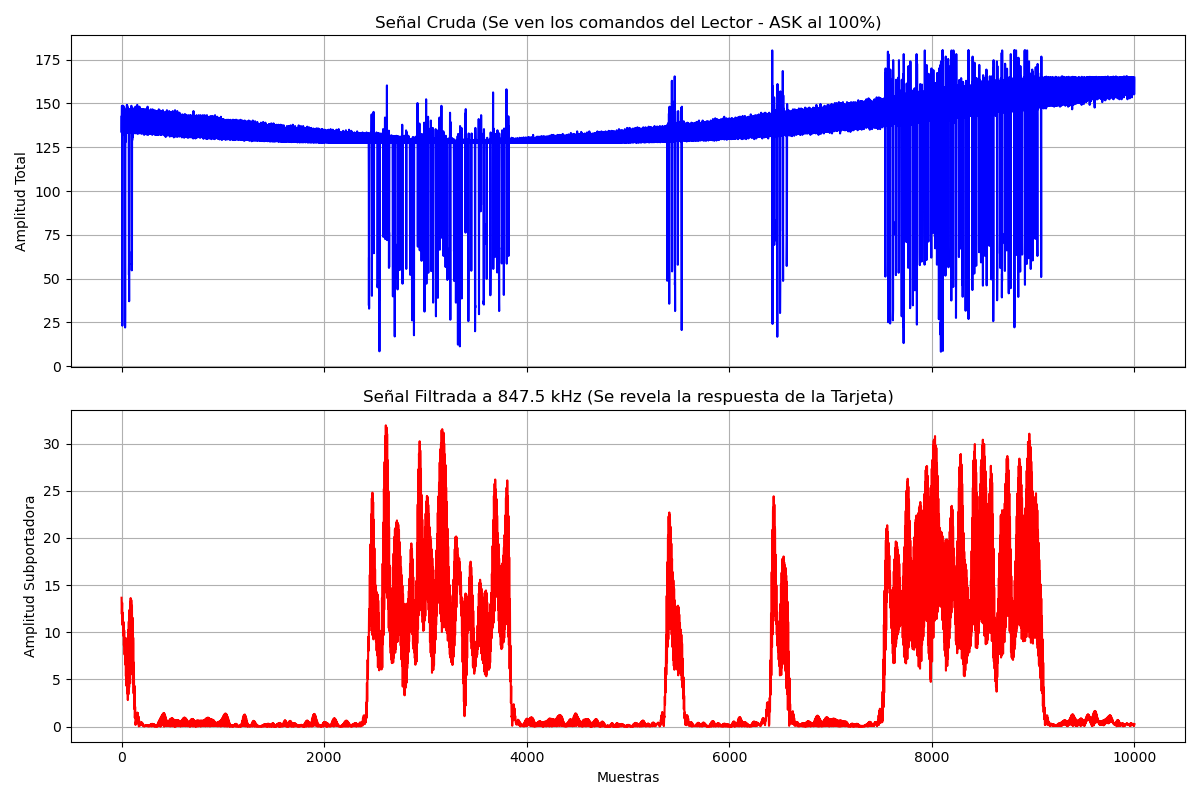
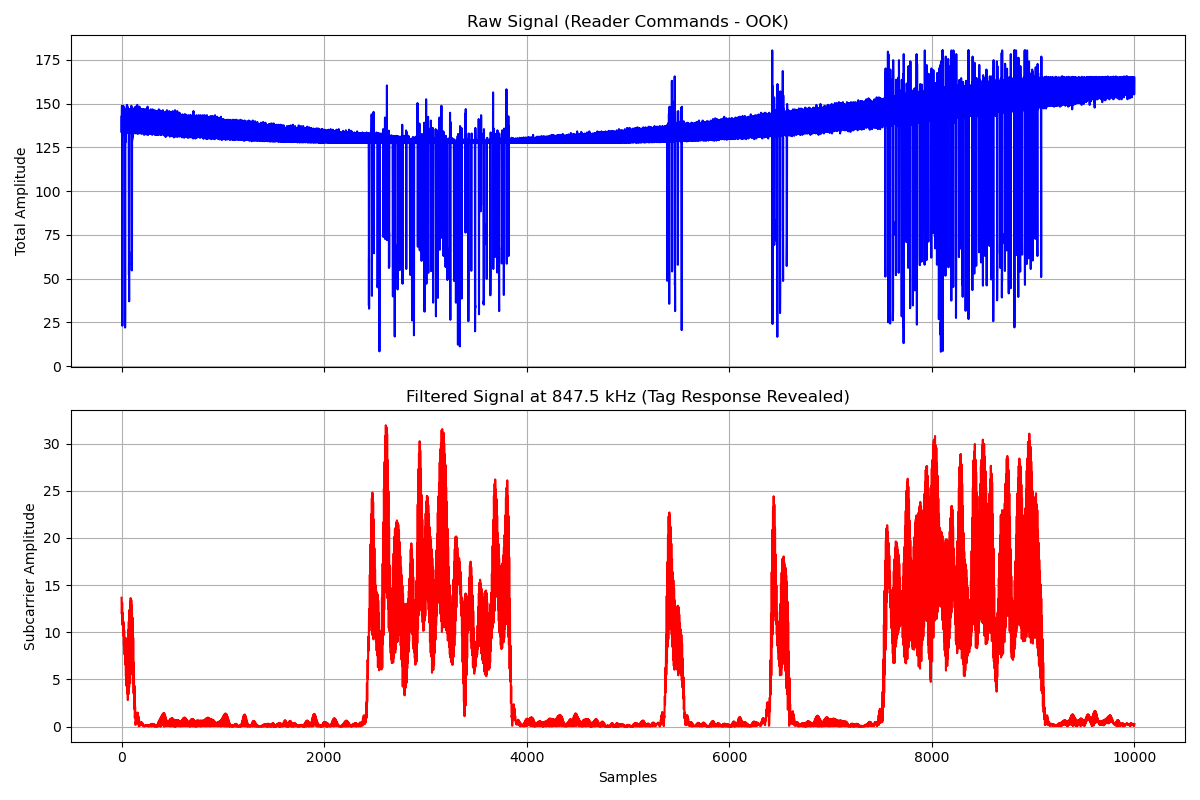
Fix Issues

diff --git a/code/filtro.py b/code/filtro.py
@@ -2,61 +2,48 @@ import numpy as np
 import matplotlib.pyplot as plt
 from scipy.signal import butter, filtfilt
 
-# --- 1. Parámetros de la Señal ---
-sample_rate = 2000000  # 2 MHz (lo que pusiste en rtl_sdr)
-frecuencia_subportadora = 847500  # 847.5 kHz (Estándar ISO 14443A)
-ancho_banda = 50000 # 150 kHz de tolerancia para captar la modulación Manchester
+sample_rate = 2000000  # 2 MHz 
+frecuencia_subportadora = 847500  # 847.5 kHz (ISO 14443A)
+ancho_banda = 50000
 
-# --- 2. Cargar y convertir los datos I/Q crudos ---
 print("Cargando datos crudos...")
 raw_data = np.fromfile('captura_rfid.raw', dtype=np.uint8)
 data = raw_data.astype(np.float32) - 127.5
 iq_data = data[0::2] + 1j * data[1::2]
 
-# --- 3. Aislar la envolvente de Amplitud (Lo que tenías antes) ---
 amplitud_total = np.abs(iq_data)
 
-# --- 4. Diseño del Filtro Pasabanda ---
 print("Aplicando filtro matemático para revelar la tarjeta...")
-# Definimos los límites del filtro (frecuencia de corte inferior y superior)
 lowcut = frecuencia_subportadora - (ancho_banda / 2)
 highcut = frecuencia_subportadora + (ancho_banda / 2)
 
-# Normalizamos las frecuencias según el teorema de Nyquist (mitad de la tasa de muestreo)
 nyq = 0.5 * sample_rate
 low = lowcut / nyq
 high = highcut / nyq
 
-# Creamos un filtro Butterworth de orden 4
 b, a = butter(4, [low, high], btype='band')
 
-# --- 5. Aplicar el filtro ---
-# Filtramos directamente la señal compleja original (no la amplitud) para mantener la fase
 senal_filtrada = filtfilt(b, a, iq_data)
 
-# Calculamos la amplitud de la señal que ya fue limpiada
 amplitud_tarjeta = np.abs(senal_filtrada)
 
-# --- 6. Graficar el "Antes" y el "Después" ---
-# Seleccionamos el mismo fragmento interesante de tu captura anterior (ej. 2000 a 10000)
 inicio_grafico = 1000000
 fin_grafico = 1010000
-
 
 print("Generando gráficos...")
 fig, (ax1, ax2) = plt.subplots(2, 1, figsize=(12, 8), sharex=True)
 
 # Gráfico Superior: Lector (Proxmark3)
 ax1.plot(amplitud_total[inicio_grafico:fin_grafico], color='blue')
-ax1.set_title('Señal Cruda (Se ven los comandos del Lector - ASK al 100%)')
-ax1.set_ylabel('Amplitud Total')
+ax1.set_title('Raw Signal (Reader Commands - OOK)')
+ax1.set_ylabel('Total Amplitude')
 ax1.grid(True)
 
 # Gráfico Inferior: Tarjeta (Respuesta filtrada)
 ax2.plot(amplitud_tarjeta[inicio_grafico:fin_grafico], color='red')
-ax2.set_title('Señal Filtrada a 847.5 kHz (Se revela la respuesta de la Tarjeta)')
-ax2.set_ylabel('Amplitud Subportadora')
-ax2.set_xlabel('Muestras')
+ax2.set_title('Filtered Signal at 847.5 kHz (Tag Response Revealed)')
+ax2.set_ylabel('Subcarrier Amplitude')
+ax2.set_xlabel('Samples')
 ax2.grid(True)
 
 plt.tight_layout()
